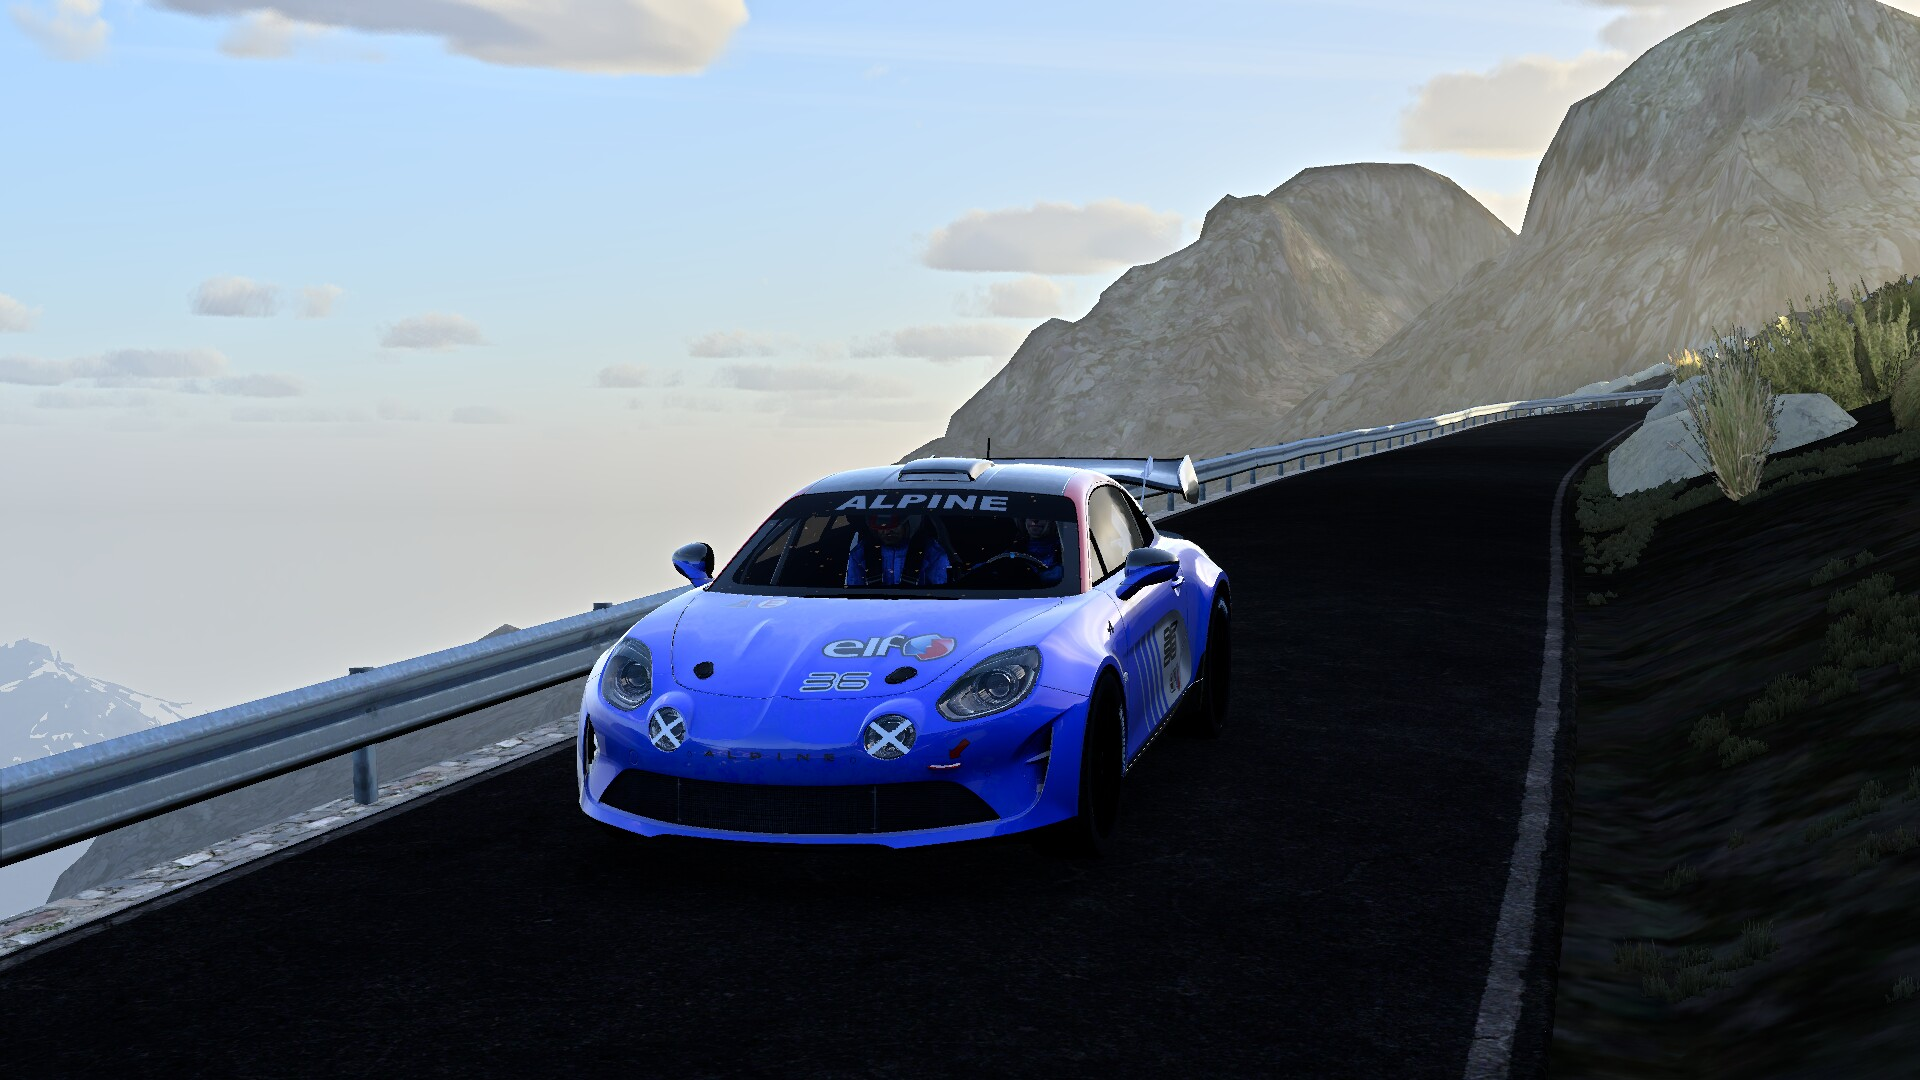
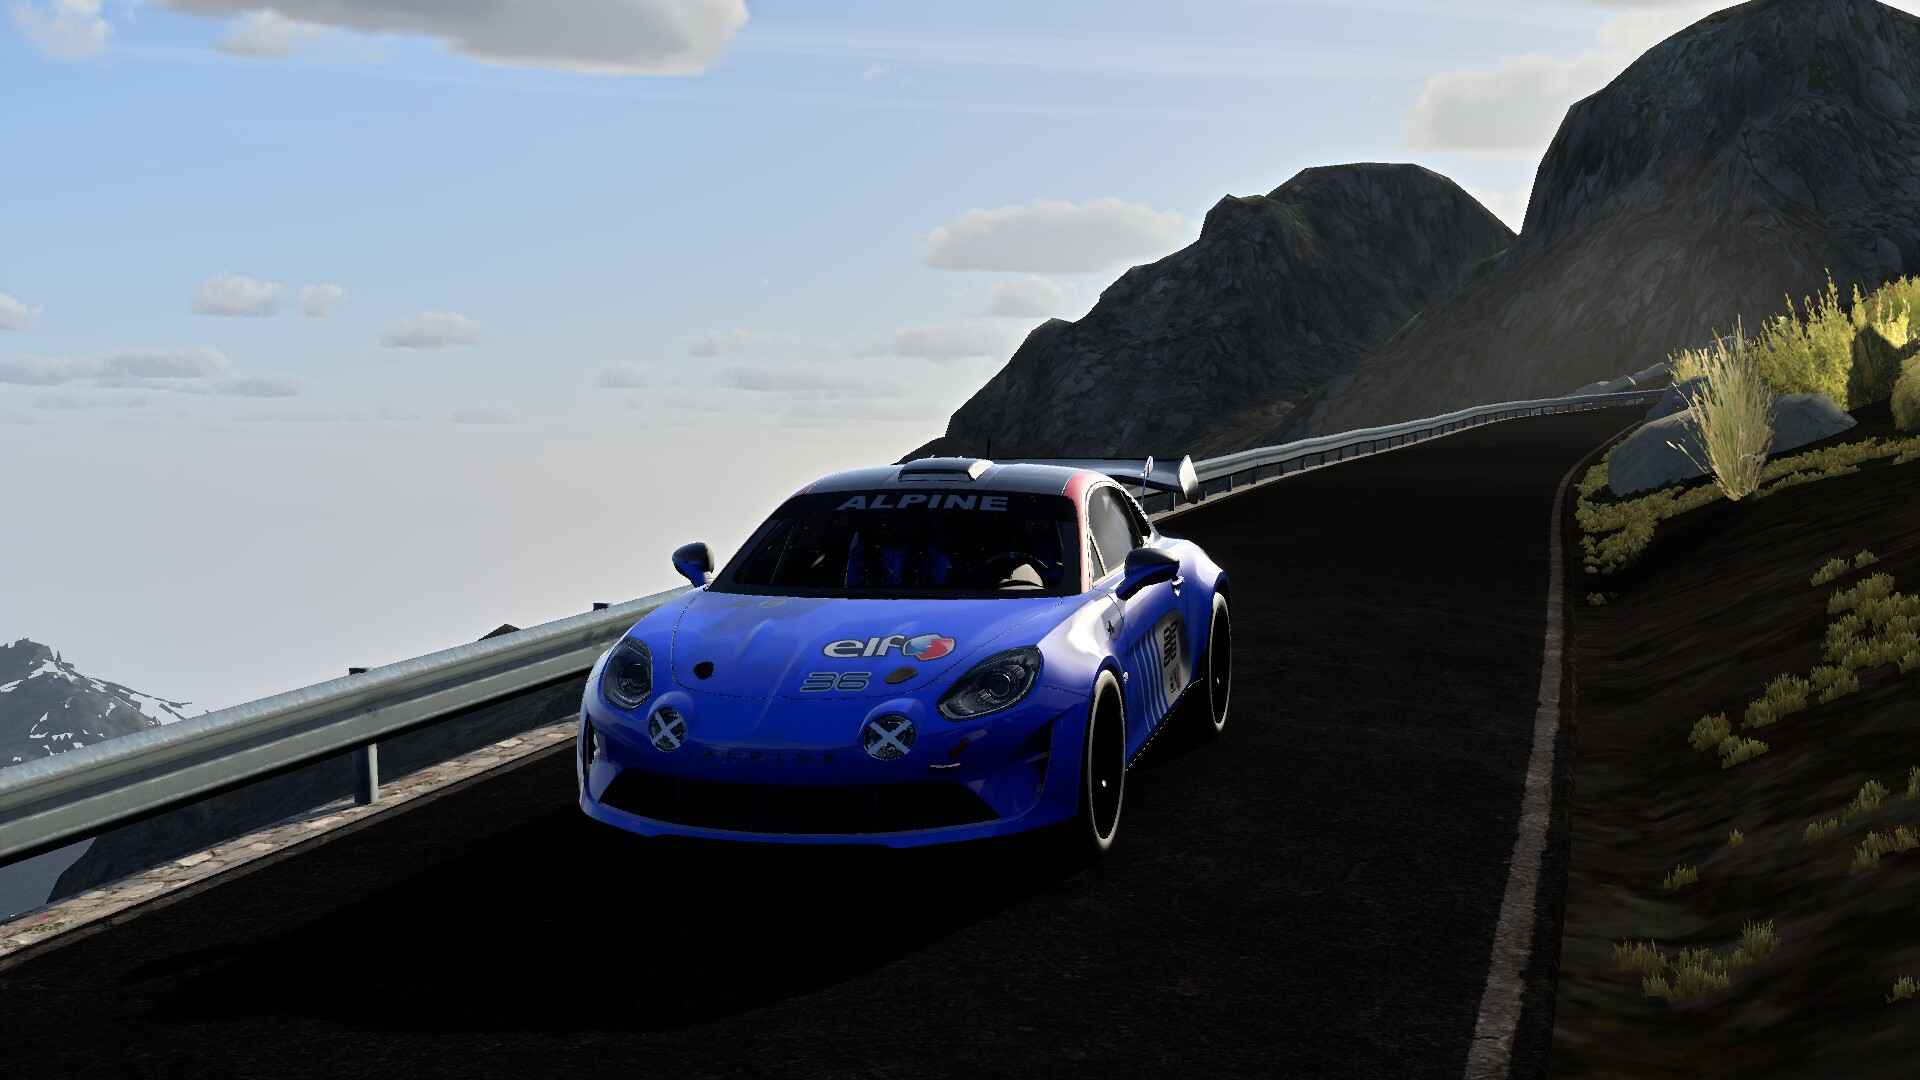
Shots: retime day-sa-calobra-alpine-flyby to 15:00

diff --git a/docs/shots/README.md b/docs/shots/README.md
@@ -45,7 +45,7 @@ Audi quattro A2 GrpB, Pirttikulma (RSF 590), cockpit view, 17:30
 
 ### day-sa-calobra-alpine-flyby
 
-Alpine A110 Rally RGT, Sa Calobra (AC import 1282190), flyby view, 16:30
+Alpine A110 Rally RGT, Sa Calobra (AC import 1282190), flyby view, 15:00
 
 ![day-sa-calobra-alpine-flyby](day-sa-calobra-alpine-flyby.jpg)
 
